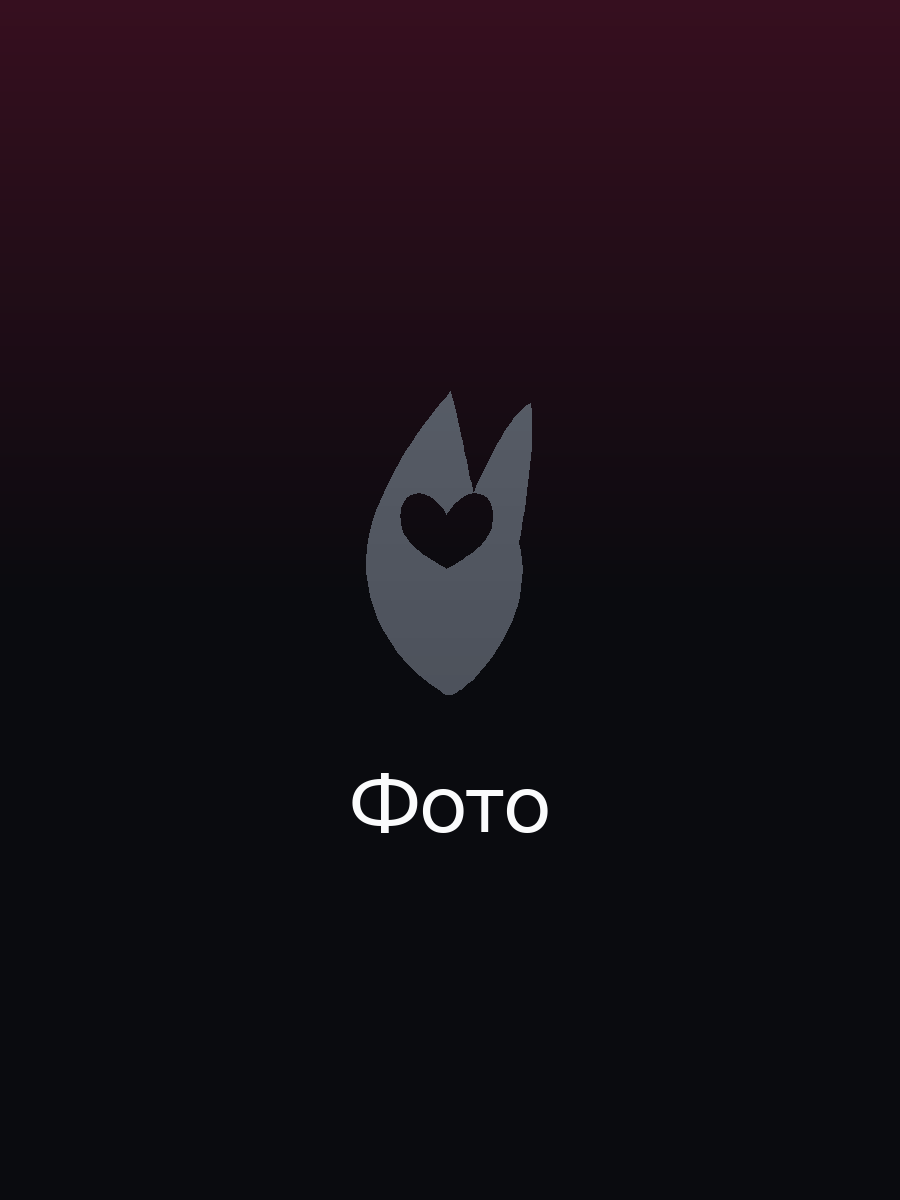
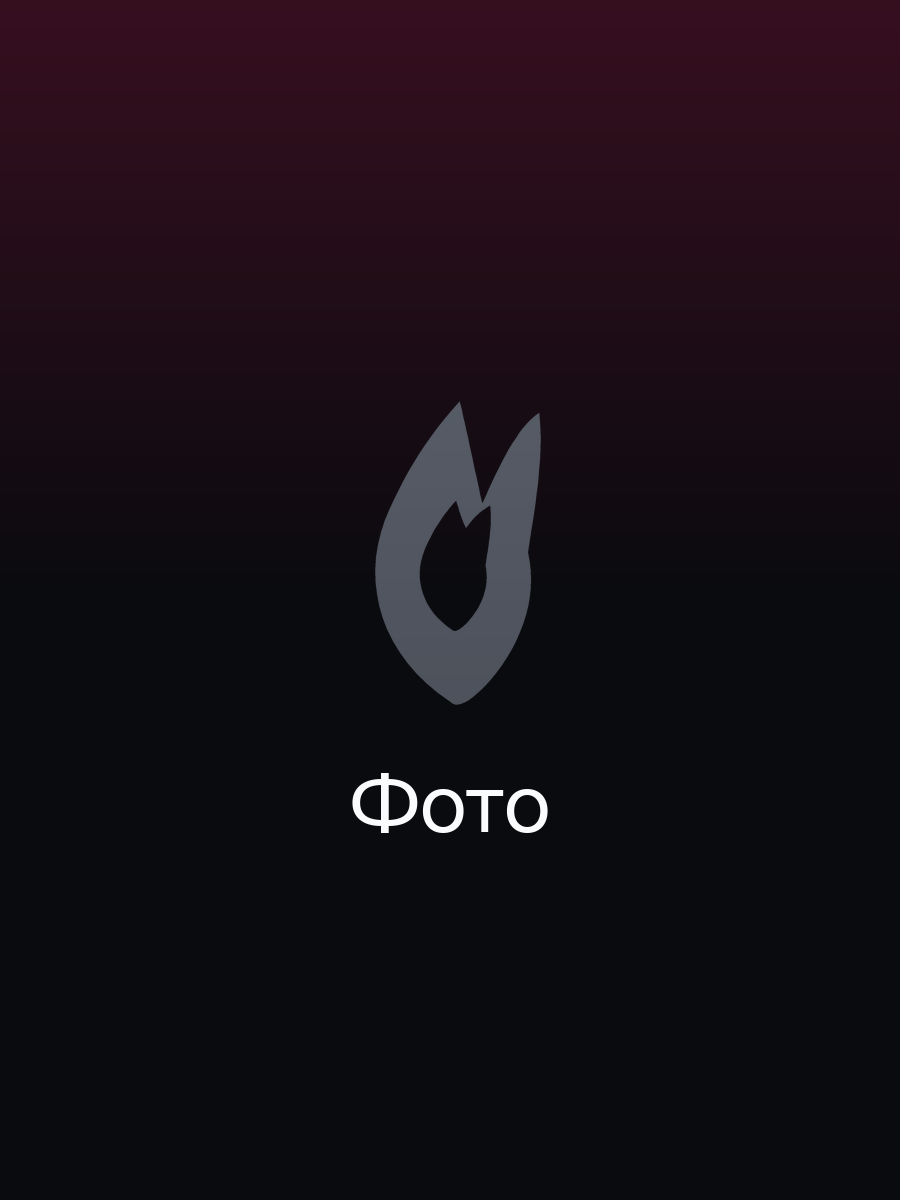
fix(brand): restore r3-06 nested torch, drop heart glyph
Heart cutout flattened the dawn flame; bring back outer ears + dark nest,
raise shard valley, supersample raster so the white sliver is gone.

Changed region(s): [[0.4044, 0.3392, 0.6222, 0.5858]]

diff --git a/web/src/components/BrandMark.tsx b/web/src/components/BrandMark.tsx
@@ -1,16 +1,15 @@
 import { useId } from "react";
 
 /**
- * Знак марки: факел рассвета с вложенным сердцем.
+ * Знак марки: факел рассвета с nested тёмным силуэтом (r3-06).
  *
- * Иерархия как у Мимолёта (внешняя форма → сердце), своя геометрия:
- * снаружи пламя, внутри сердце negative space. Без отдельного глифа.
- * Геометрия повторяет tools/brandmark.py. Плоский, статичный.
+ * Снаружи пламя (оранж→малина), внутри тёмное гнездо с «ушками».
+ * Без отдельного глифа и без крупного сердца. Геометрия = tools/brandmark.py.
  */
 
-/** Пламя + сердце (evenodd). viewBox 100×100. */
-const ФАКЕЛ_СЕРДЦЕ =
-  "M 47.548,89.418 C 28.618,76.798 22.759,56.967 29.520,38.939 C 34.928,25.418 43.041,13.700 50.252,6.038 C 52.956,17.306 54.759,27.221 56.562,34.432 C 61.069,24.066 66.477,12.799 72.336,9.193 C 73.688,21.813 70.984,36.235 69.181,47.953 C 72.336,61.474 66.477,74.995 57.463,84.911 C 52.055,90.319 49.351,91.221 47.548,89.418 Z M 49.116,40.316 C 42.505,29.860 35.294,34.668 36.496,41.879 C 36.496,47.888 43.707,52.095 49.116,55.099 C 54.524,52.095 61.735,47.888 61.735,41.879 C 62.937,34.668 55.726,29.860 49.116,40.316 Z";
+/** Пламя + гнездо (evenodd). viewBox 100×100. */
+const ФАКЕЛ =
+  "M 50.000,81.494 C 35.850,72.061 31.470,57.236 36.523,43.760 C 40.566,33.652 46.631,24.893 52.021,19.165 C 54.043,27.588 55.391,35.000 56.738,40.391 C 60.107,32.642 64.150,24.219 68.530,21.523 C 69.541,30.957 67.520,41.738 66.172,50.498 C 68.530,60.605 64.150,70.713 57.412,78.125 C 53.369,82.168 51.348,82.842 50.000,81.494 Z M 50.391,66.523 C 44.320,62.477 42.441,56.117 44.609,50.336 C 46.344,46.000 48.945,42.242 51.258,39.785 C 52.000,42.200 52.600,44.200 53.350,45.500 C 54.200,44.200 55.800,42.200 58.340,40.797 C 58.773,44.844 57.906,49.469 57.328,53.227 C 58.340,57.563 56.461,61.898 53.570,65.078 C 51.836,66.812 50.969,67.102 50.391,66.523 Z";
 
 export default function BrandMark({
   size = 64,
@@ -35,13 +34,13 @@ export default function BrandMark({
       className={className}
     >
       <defs>
-        <linearGradient id={grad} x1="28" y1="8" x2="58" y2="90" gradientUnits="userSpaceOnUse">
+        <linearGradient id={grad} x1="36" y1="18" x2="60" y2="82" gradientUnits="userSpaceOnUse">
           <stop offset="0%" stopColor="#ff7a1a" />
           <stop offset="45%" stopColor="var(--color-accent)" />
           <stop offset="100%" stopColor="#b81648" />
         </linearGradient>
       </defs>
-      <path d={ФАКЕЛ_СЕРДЦЕ} fillRule="evenodd" fill={`url(#${grad})`} />
+      <path d={ФАКЕЛ} fillRule="evenodd" fill={`url(#${grad})`} />
     </svg>
   );
 }

diff --git a/tools/brandmark.py b/tools/brandmark.py
@@ -1,17 +1,15 @@
-"""Знак марки: факел рассвета с вложенным сердцем (иерархия как у Мимолёта).
+"""Знак марки: факел рассвета с nested тёмным силуэтом (r3-06 dawn).
 
-Снаружи — силуэт пламени/факела (r3-06), градиент оранж → малина.
-Внутри — сердце negative space, оптически по центру пламени.
-Без отдельного глифа (+, искра, черта): гармония за счёт вложенной формы.
+Снаружи — силуэт пламени/факела, градиент оранж → малина.
+Внутри — тёмное гнездо той же формы («ушки»), без отдельного глифа
+(+, бар, искра) и без крупного сердца, ломающего контур.
 
-Геометрия одна на все носители: iOS-иконка, сплэш, favicon, баннеры
-(make_icons.py, make_banners.py) импортируют её отсюда; SVG на
-лендинге и React (web/src/components/BrandMark.tsx) повторяют те же
-пропорции. Константы ниже — источник правды.
+Геометрия — исходный r3-06-dawn (viewBox 1024→100), долина стыка
+внутренних шардов поднята, чтобы убрать белый сливер. Растр через
+4× supersample — PIL polygon без него оставлял светлую щель на AA.
 
-Пропорции в viewBox 100×100 (центр знака ≈ 50,50):
-    внешнее пламя по высоте ≈ 83.4
-    сердце — continuous tip-down, evenodd-вырез
+Источник правды для make_icons / make_banners; SVG на лендинге и
+React (BrandMark.tsx) повторяют те же контуры.
 """
 
 from __future__ import annotations
@@ -33,24 +31,34 @@ from PIL import Image, ImageDraw
 ВЫСОТА = 2.0
 
 # viewBox 100×100 — те же контуры, что BrandMark.tsx / landing/icon.svg
+# Масштаб из r3-06-dawn.svg (1024): ×100/1024.
 _OUTER_100 = (
-    "M 47.548,89.418 C 28.618,76.798 22.759,56.967 29.520,38.939 "
-    "C 34.928,25.418 43.041,13.700 50.252,6.038 "
-    "C 52.956,17.306 54.759,27.221 56.562,34.432 "
-    "C 61.069,24.066 66.477,12.799 72.336,9.193 "
-    "C 73.688,21.813 70.984,36.235 69.181,47.953 "
-    "C 72.336,61.474 66.477,74.995 57.463,84.911 "
-    "C 52.055,90.319 49.351,91.221 47.548,89.418 Z"
+    "M 50.000,81.494 C 35.850,72.061 31.470,57.236 36.523,43.760 "
+    "C 40.566,33.652 46.631,24.893 52.021,19.165 "
+    "C 54.043,27.588 55.391,35.000 56.738,40.391 "
+    "C 60.107,32.642 64.150,24.219 68.530,21.523 "
+    "C 69.541,30.957 67.520,41.738 66.172,50.498 "
+    "C 68.530,60.605 64.150,70.713 57.412,78.125 "
+    "C 53.369,82.168 51.348,82.842 50.000,81.494 Z"
 )
-_HEART_100 = (
-    "M 49.116,40.316 C 42.505,29.860 35.294,34.668 36.496,41.879 "
-    "C 36.496,47.888 43.707,52.095 49.116,55.099 "
-    "C 54.524,52.095 61.735,47.888 61.735,41.879 "
-    "C 62.937,34.668 55.726,29.860 49.116,40.316 Z"
+# Nested гнездо: ушки как у r3-06, долина стыка ~45.5 (было ~48.9),
+# чтобы шарды сходились без белого сливера на растеризации.
+_NEST_100 = (
+    "M 50.391,66.523 C 44.320,62.477 42.441,56.117 44.609,50.336 "
+    "C 46.344,46.000 48.945,42.242 51.258,39.785 "
+    "C 52.000,42.200 52.600,44.200 53.350,45.500 "
+    "C 54.200,44.200 55.800,42.200 58.340,40.797 "
+    "C 58.773,44.844 57.906,49.469 57.328,53.227 "
+    "C 58.340,57.563 56.461,61.898 53.570,65.078 "
+    "C 51.836,66.812 50.969,67.102 50.391,66.523 Z"
 )
 
 # Половина высоты внешнего пламени в unit-space (для масштаба r).
-_UNIT_HALF = 41.7
+# (81.494 − 19.165) / 2 ≈ 31.16
+_UNIT_HALF = 31.16
+
+# Публичный path для сверки со SVG-носителями (outer + nest, evenodd).
+ФАКЕЛ_PATH_100 = f"{_OUTER_100} {_NEST_100}"
 
 
 def _lerp(a: float, b: float, t: float) -> float:
@@ -118,7 +126,7 @@ def _масштаб(pts: list[tuple[float, float]], cx: float, cy: float, r: flo
 
 
 _OUTER_POLY = _полигон_из_path(_OUTER_100)
-_HEART_POLY = _полигон_из_path(_HEART_100)
+_NEST_POLY = _полигон_из_path(_NEST_100)
 
 
 def _градиент_вертикаль(
@@ -162,13 +170,18 @@ def нарисовать_знак(
     else:
         верх, середина, низ = ОРАНЖ, МАЛИНОВЫЙ, МАЛИНА_ТЁМНАЯ
 
-    outer = _масштаб(_OUTER_POLY, cx, cy, r)
-    heart = _масштаб(_HEART_POLY, cx, cy, r)
+    # 4× supersample: иначе PIL polygon оставляет светлую щель на стыке шардов.
+    ss = 4
+    w, h = img.size
+    big = (w * ss, h * ss)
+    outer = _масштаб(_OUTER_POLY, cx * ss, cy * ss, r * ss)
+    nest = _масштаб(_NEST_POLY, cx * ss, cy * ss, r * ss)
 
-    маска = Image.new("L", img.size, 0)
+    маска = Image.new("L", big, 0)
     draw_m = ImageDraw.Draw(маска)
     draw_m.polygon(outer, fill=255)
-    draw_m.polygon(heart, fill=0)
+    draw_m.polygon(nest, fill=0)
+    маска = маска.resize((w, h), Image.LANCZOS)
 
     градиент = _градиент_вертикаль(img.size, верх, низ, середина).convert("RGBA")
     градиент.putalpha(маска)

diff --git a/tools/make_icons.py b/tools/make_icons.py
@@ -2,10 +2,10 @@
 """
 Генератор иконки, splash-экрана и favicon.
 
-Знак марки — факел рассвета с вложенным сердцем (см. tools/brandmark.py).
+Знак марки — факел рассвета с nested гнездом (см. tools/brandmark.py).
 Иконка — тёмный квадрат в цвете фона приложения со знаком по центру:
-на домашнем экране пламя+сердце с градиентом рассвета читается с
-расстояния; без отдельного глифа в центре.
+на домашнем экране пламя с тёмным силуэтом внутри читается с расстояния;
+без отдельного глифа и без крупного сердца.
 
 Цвета берутся из дизайн-системы (web/src/styles/globals.css), чтобы
 иконка, splash и интерфейс выглядели одним продуктом.
@@ -90,7 +90,7 @@ def main() -> None:
     print(f"✓ {WEB_PUBLIC / 'apple-touch-icon.png'}")
 
     # Favicon: на 16px знак рисуем заново крупнее, а не сжимаем иконку —
-    # у уменьшенной копии сердце внутри пламени замыливается
+    # у уменьшенной копии гнездо внутри пламени замыливается
     fav_sizes = [(16, 16), (32, 32), (48, 48), (64, 64)]
     fav = Image.new("RGB", (64, 64), BG)
     нарисовать_знак(fav, 32, 32, 64 * 0.40)
